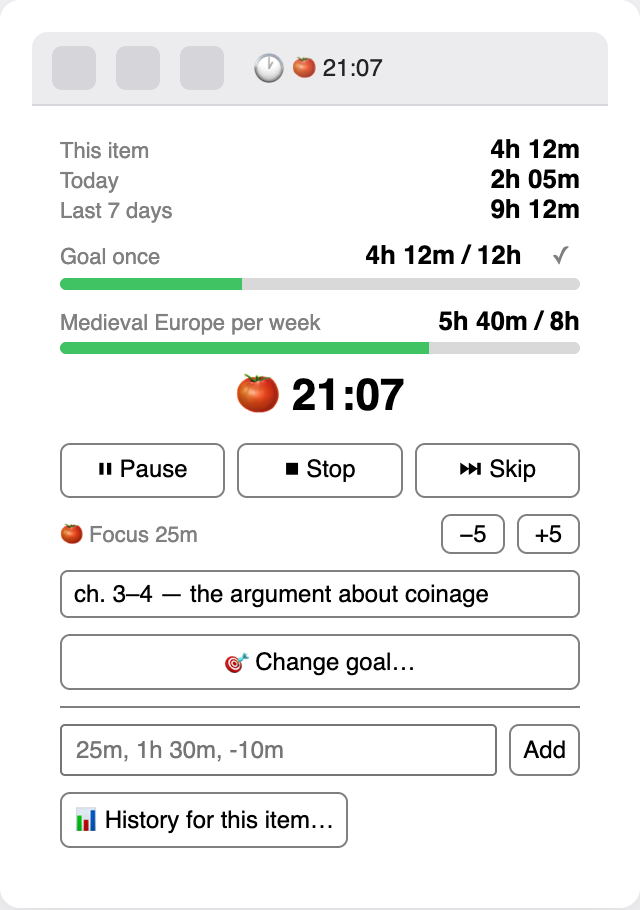
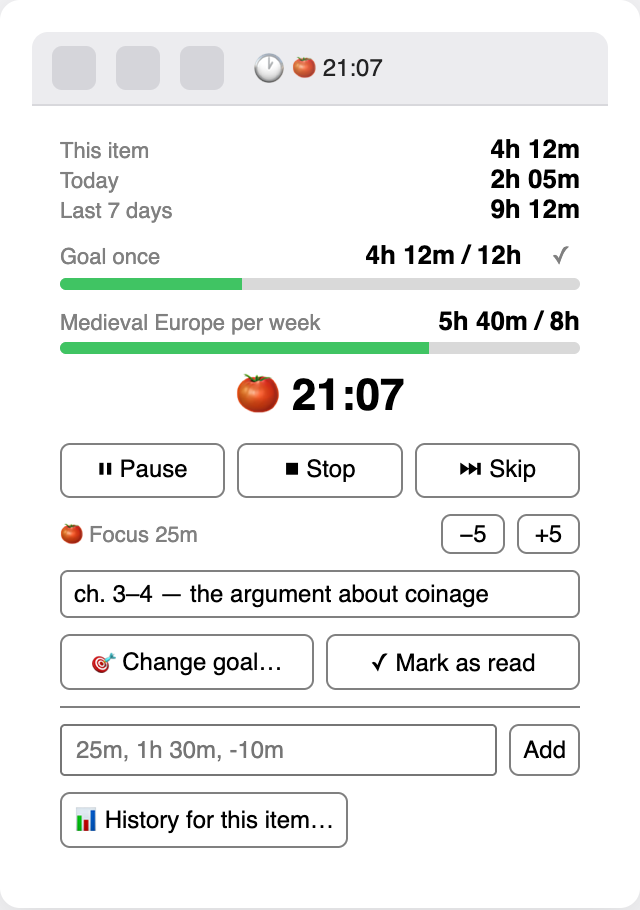
Add "mark as read" to the reader popup
Tagging a book as read required a goal on it, which is bookkeeping for
something you just want to state. The popup now has its own ✓ Mark as read
beside the goal button: it adds the tag and does nothing else — no goal, no
session, no completedAt — and clicking it again takes the tag off. The label
follows the item, so it reads "✓ Read" once tagged.

It asks for a tag even if tagging was declined earlier: that answer was about
goals marking things read, and clicking this is someone asking for the tag
directly. Declining again still declines.

Changed region(s): [[0.125, 0.7077, 0.8438, 0.7692]]

diff --git a/bootstrap.js b/bootstrap.js
@@ -570,7 +570,6 @@ const CSS = `
 .rt-panel .rt-note { margin-top:8px; }
 .rt-panel .rt-note input { width:100%; box-sizing:border-box; padding:4px 6px; font:12px sans-serif;
 	background:Canvas; color:CanvasText; border:1px solid GrayText; border-radius:4px; }
-.rt-panel .rt-goalbtn { width:100%; margin-top:8px; }
 .rt-panel .rt-goal .rt-row .rt-muted { flex:1; min-width:0; overflow:hidden;
 	text-overflow:ellipsis; white-space:nowrap; }
 .rt-panel .rt-mark { flex:0 0 auto; font:12px/1 sans-serif; padding:1px 4px; margin-left:2px;
@@ -914,7 +913,11 @@ function fillPanel(doc, box, item, reader) {
 	const ownGoal = (period) => goals.find((g) => g.scope === "item" && g.libraryID === item.libraryID
 		&& g.key === item.key && (!period || g.period === period));
 
-	const goalBtn = el(doc, "button", "rt-goalbtn", ownGoal() ? "🎯 Change goal…" : "🎯 Set a goal…");
+	const buttons = el(doc, "div", "rt-actions");
+	const goalBtn = el(doc, "button", null, ownGoal() ? "🎯 Change goal…" : "🎯 Set a goal…");
+	const readBtn = el(doc, "button", null, "✓ Mark as read");
+	readBtn.addEventListener("click", () => { toggleRead(item); rebuild(); });
+	buttons.append(goalBtn, readBtn);
 	const editor = el(doc, "div", "rt-goaledit");
 	const gInput = doc.createElement("input");
 	gInput.type = "text";
@@ -929,12 +932,12 @@ function fillPanel(doc, box, item, reader) {
 	gButtons.append(gSave, gDrop, gCancel);
 	editor.append(gFields, gPeriod.el, gButtons);
 	editor.hidden = true;
-	box.insertBefore(goalBtn, add);
+	box.insertBefore(buttons, add);
 	box.insertBefore(editor, add);
 
 	const editing = (on) => {
 		editor.hidden = !on;
-		goalBtn.hidden = on;
+		buttons.hidden = on;
 		if (!on) return;
 		const g = ownGoal();
 		gInput.value = g ? fmtTotal(g.seconds) : "";
@@ -998,6 +1001,10 @@ function fillPanel(doc, box, item, reader) {
 			noteDirty = false;
 		}
 		else if (!noteDirty) noteInput.value = jotting.note || "";   // never overwrite typing
+		const tagName = readTag();
+		const isRead = tagName && safe(() => item.hasTag(tagName), false);
+		readBtn.textContent = isRead ? `✓ Read` : "✓ Mark as read";
+		readBtn.title = isRead ? `Remove the “${tagName}” tag` : "Tag this item as read in Zotero";
 		pomLabel.textContent = `🍅 Focus ${focusMin}m`;
 		stats.forEach(([, get], i) => { values[i].textContent = fmtTotal(safe(get, 0)) || "0m"; });
 		const mine = isMine(item);
@@ -1180,12 +1187,24 @@ function applyReadTag(g, marking) {
 	if (!tag) return;
 	safe(() => {
 		const item = Zotero.Items.getByLibraryAndKey(g.libraryID, g.key);
-		if (!item) return;
-		if (marking === item.hasTag(tag)) return;      // already how it should be
-		if (marking) item.addTag(tag);
-		else item.removeTag(tag);
-		item.saveTx();
+		if (item) setTag(item, tag, marking);
 	});
+}
+
+function setTag(item, tag, on) {
+	if (on === item.hasTag(tag)) return;      // already how it should be
+	if (on) item.addTag(tag);
+	else item.removeTag(tag);
+	item.saveTx();
+}
+
+// The reader's own "I have read this", with no goal involved. An explicit click
+// asks for the tag even if it was declined earlier — declining was an answer
+// about goals marking things read, and this is someone asking for it directly.
+function toggleRead(item) {
+	const tag = readTag() || askReadTag();
+	if (!tag) return;
+	safe(() => setTag(item, tag, !item.hasTag(tag)));
 }
 
 // The sessions a goal counts. Resolved when asked, never stored: collection
@@ -2134,6 +2153,7 @@ if (typeof module !== "undefined") {
 		reparentRows, idFor, readerOpenFor, shutdown, log, goals, bars,
 		setView: (v) => { historyView = v; },
 		setPick: (v) => { goalPick = v; },
+		toggleRead,
 		commitGoal, toggleComplete, applyReadTag, checkGoals,
 		setActive: (v) => { active = v; }, setDB: (v) => { db = v; }, getTimer: () => timer,
 		setRegistered: (col, row) => { columnKey = col; infoRowID = row; },

diff --git a/test.js b/test.js
@@ -500,6 +500,25 @@ for (const wide of [
 global.Zotero.Items.getByLibraryAndKey = realLookup;
 I.goals.length = 0;
 
+// The popup's own "mark as read" just tags, with no goal in sight — and unlike
+// the goal button it asks even if tagging was declined before, since clicking it
+// is someone asking for the tag directly.
+prefs = {}; asked = 0;
+global.Services.prompt.prompt = (win, title, text, out) => { asked++; out.value = "read"; return true; };
+I.goals.length = 0;
+I.toggleRead(taggedItem);
+assert.deepStrictEqual(tagged, ["read"], "tags the item");
+assert.strictEqual(I.goals.length, 0, "and creates no goal");
+I.toggleRead(taggedItem);
+assert.deepStrictEqual(tagged, [], "clicking again takes it off");
+
+prefs = { "readingTime.readTag": "" };   // declined earlier, for goals
+asked = 0;
+I.toggleRead(taggedItem);
+assert.strictEqual(asked, 1, "an explicit click asks again");
+assert.deepStrictEqual(tagged, ["read"], "and tags once a tag is given");
+tagged.length = 0;
+
 // --- what happens when things go sideways ---------------------------------
 const book2 = { id: 2, libraryID: 1, key: "BOOK2", isRegularItem: () => true,
 	getDisplayTitle: () => "Another Book", getCollections: () => [] };

diff --git a/README.md b/README.md
@@ -16,6 +16,9 @@ ways to log time on the item you're reading:
   toward reading time. The length can still be adjusted mid-run, and is
   remembered in `extensions.zotero.readingTime.focusMin`.
 - **Manual entry** — type `25`, `1h 30m`, `45s`, or `-10` to subtract.
+- **✓ Mark as read** — tags the item in Zotero and nothing else: no goal, no
+  session, no bookkeeping. Click it again to take the tag off. It uses the same
+  tag as goals do, asking for one the first time.
 - **A note** — one line about what you read, belonging to the session being
   timed. Stopping saves it and empties the field, so what's on screen is always
   the note for what's running now. Notes sit on their sessions line in the history window, where any of them can still be written or changed later.
